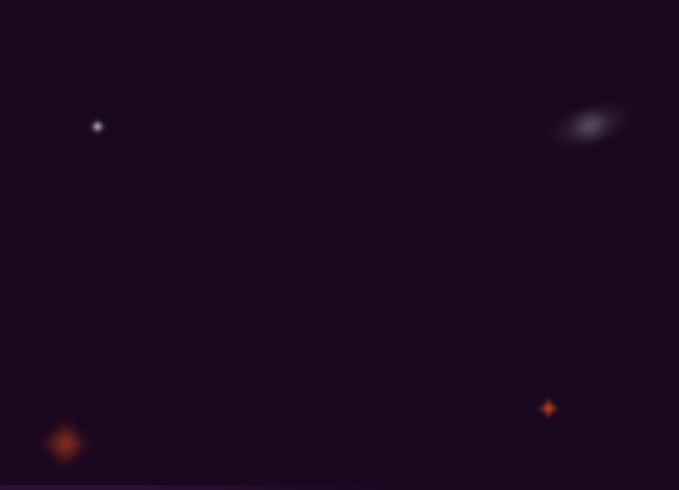
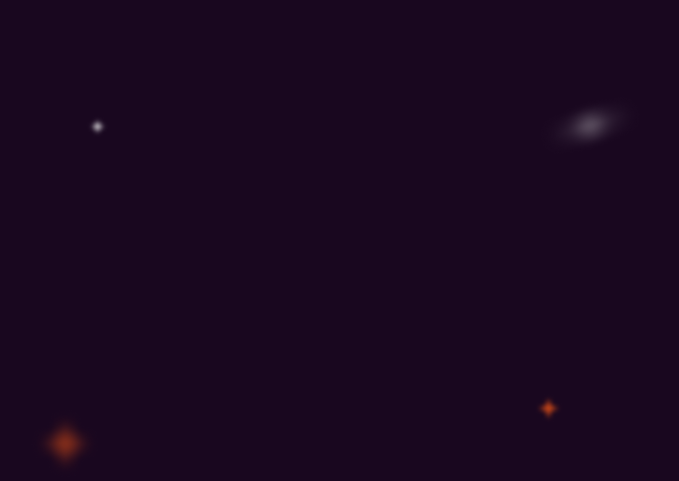
potential issues fixed

Changed region(s): [[0.0, 0.8732, 0.2474, 1.0], [0.7732, 0.8108, 0.8351, 0.8732], [0.1237, 0.2495, 0.1546, 0.2807]]

diff --git a/src/components/Footer.tsx b/src/components/Footer.tsx
@@ -1,3 +1,5 @@
+"use client"
+import { useLoading } from "@/contexts/LoadingContext";
 import Link from "next/link";
 
 const mainPages = [
@@ -24,10 +26,14 @@ const socialHandles = [
 ];
 
 export default function Footer() {
+    const { isLoading } = useLoading();
+  
+  if (isLoading) return null;
+  
   return (
     <footer className="bg-primary text-secondary relative overflow-hidden">
       <div className="mx-auto max-w-7xl px-6 py-20 relative z-10">
-        <div className="grid grid-cols-1 lg:grid-cols-4 gap-8 lg:gap-12">
+        <div className="grid grid-cols-1 lg:grid-cols-4 gap-y-8 lg:gap-y-12 gap-x-8 lg:gap-x-32  ">
           {/* Left: Mail */}
           <div className="lg:col-span-1">
             <h2 className="text-xl font-heading font-bold mb-6 tracking-tight">
@@ -49,7 +55,7 @@ export default function Footer() {
           </div>
 
           {/* Right: Three link grids */}
-          <div className="lg:col-span-3 grid grid-cols-3 gap-8">
+          <div className="lg:col-span-3 grid grid-cols-3">
             <div>
               <h3 className="text-xs font-heading font-bold uppercase mb-5 tracking-wider text-secondary">
                 Main Pages

diff --git a/src/components/HeroCards.tsx b/src/components/HeroCards.tsx
@@ -36,13 +36,13 @@ const cards: CardData[] = [
 
 export default function HeroCards() {
   return (
-    <div className="flex w-full gap-4 px-14 mt-5">
+    <div className="flex w-[90%] gap-x-6 gap-y-4 px-14 mt-5">
       {cards.map((card, index) => (
         <motion.div
           key={index}
           className={`
-            relative overflow-hidden rounded-2xl px-8 pt-5 pb-5 flex flex-col items-start justify-center gap-y-4
-            ${card.variant === "accent" ? "bg-accent/60 text-secondary border border-borderColor" : "bg-primary/60 text-secondary border border-borderColor"}
+            relative overflow-hidden rounded-2xl px-8 pt-5 pb-5 flex flex-col items-start justify-between gap-y-4
+            ${card.variant === "accent" ? "bg-accent/60 text-secondary border border-borderColor" : "bg-primary/60 text-secondary border border-borderColor "}
           `}
           style={{ width: card.baseWidth }}
           whileHover={{

diff --git a/src/app/page.tsx b/src/app/page.tsx
@@ -145,7 +145,7 @@ export default function Home() {
     <LoaderWrapper>
       <div className="flex flex-col max-w-screen overflow-x-hidden">
         {/* Hero Section */}
-        <section className="hero-bg flex flex-col items-center pt-40 pb-10 gap-y-5 relative max-h-270">
+        <section className="hero-bg flex flex-col items-center pt-40 pb-10  relative">
           <Image
             src="/hero/home-bg.jpeg"
             fill
@@ -153,7 +153,7 @@ export default function Home() {
             className="absolute inset-0 z-0 object-cover opacity-20"
           />
 
-          <div className="relative z-10 flex flex-col items-center gap-y-5 w-full">
+          <div className="relative z-10 flex flex-col items-center gap-y-6 w-full">
             <h1 className="font-bold text-6xl text-secondary text-center font-heading leading-16">
               Transforming Ideas Into{" "}
               <span className="text-accent">

diff --git a/src/components/Loading.tsx b/src/components/Loading.tsx
@@ -2,7 +2,7 @@ import Image from "next/image";
 
 function Loading() {
   return (
-    <div className="relative h-screen w-screen hero-bg z-999">
+    <div className="relative h-screen w-screen hero-bg z-999 ">
       <Image
         src="/loading.gif"
         alt="Loading"

diff --git a/src/components/FallingCapsules.tsx b/src/components/FallingCapsules.tsx
@@ -6,7 +6,7 @@ import Matter from "matter-js";
 const { Engine, Runner, Bodies, Body, Composite, Constraint, Events, Vector } =
   Matter;
 
-const CAPSULE_H = 36;
+const CAPSULE_H = 48;
 const SPAWN_EVERY_MS = 400;
 const SETTLE_FRAMES = 45;
 const WALL_THICKNESS = 50;
